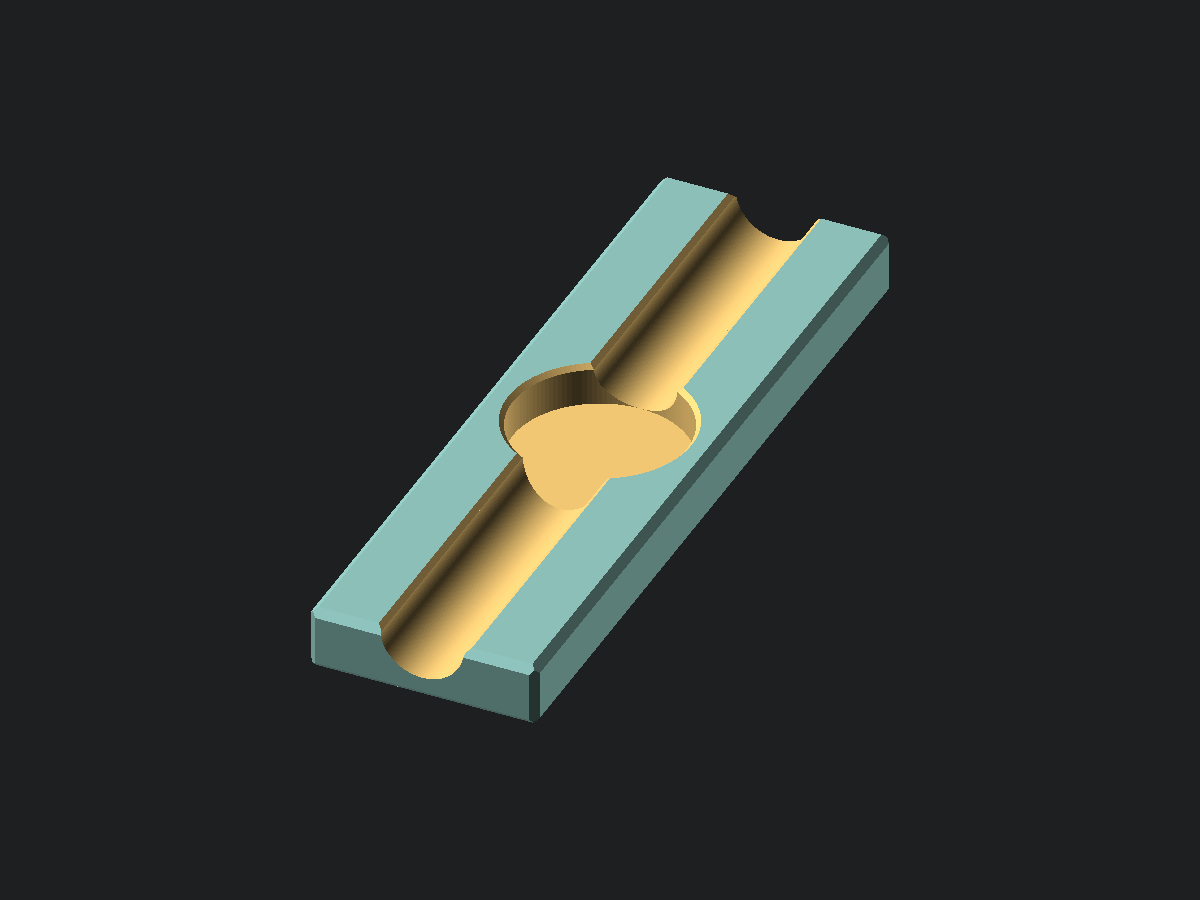
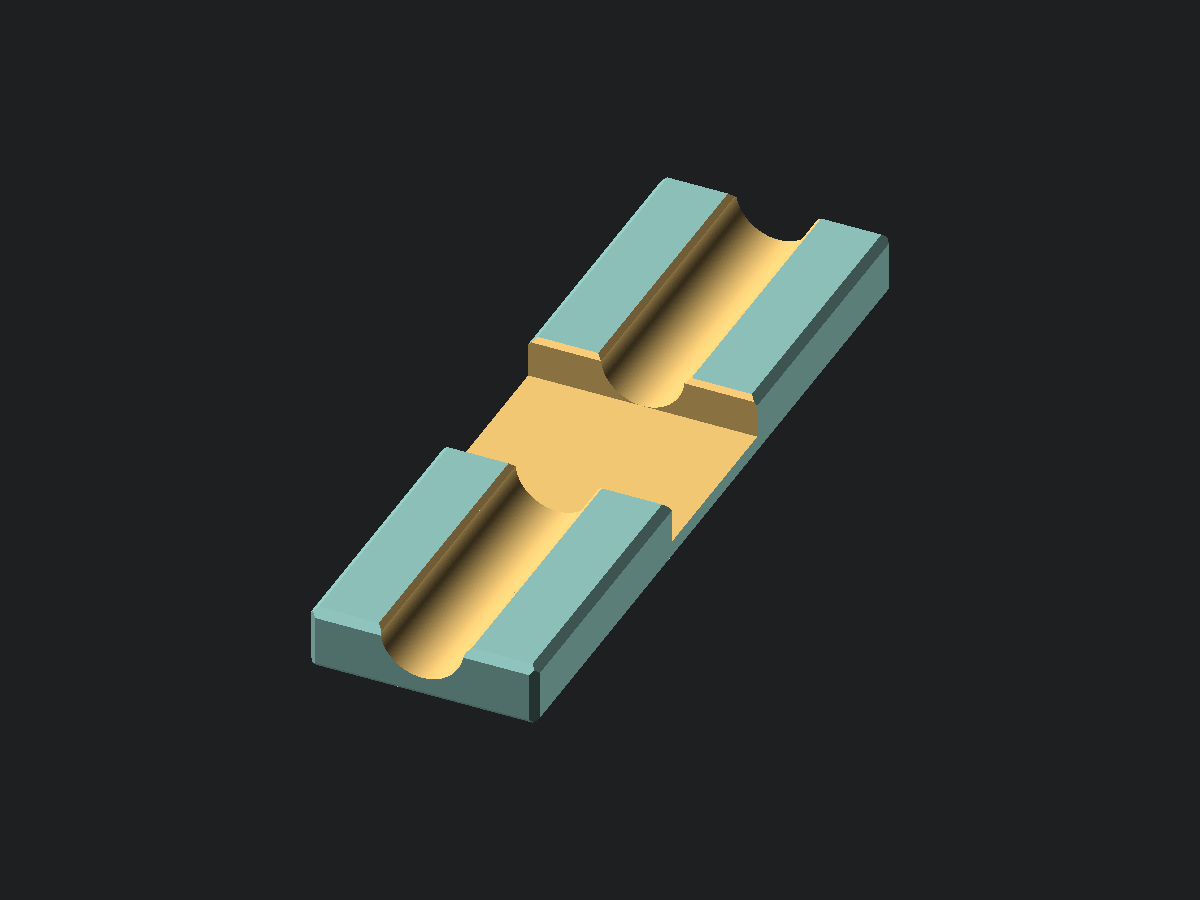
✨ Open the pencil rest's finger notch out both sides
The round punch left a wall of material at each side, so a fingertip had to
reach down into it and pinch at whatever stood proud of the top face. Cutting
the notch clear through both side faces lets a finger and thumb come in
horizontally, level with the underside of the pencil, and close on its whole
diameter — a grip that no longer depends on fingertip size.

It costs nothing off the bottom face, so the block holds the desk exactly as
before; what it costs is trough, and notch_l is now asserted against leaving
less cradle at each end than the pencil is thick.

Changed region(s): [[0.37, 0.3733, 0.6475, 0.5911]]

diff --git a/README.md b/README.md
@@ -494,8 +494,8 @@ printed one at a time they will not, quite.
 
 A block with a cradle down its top, to park a pencil on the desk instead of
 letting it roll off. Every edge is chamfered and one cylindrical trough runs the
-length of the top face; the pencil lies in the trough, and a round punch through
-the middle is what makes it possible to pick up again.
+length of the top face; the pencil lies in the trough, and a notch cut clear
+through the middle is what makes it possible to pick up again.
 
 **The cradle is not a choice.** Its radius is the pencil plus a clearance, it is
 cut to exactly half a cylinder, and the block is then made as tall as that cut
@@ -509,26 +509,34 @@ the radius of the cut are one expression, so the trough walls arrive at the top
 face vertical. A deeper cut would undercut the pencil — it could not be dropped
 in, only threaded in from one end, and the roof of the undercut would be an
 overhang. Half is the deepest a cradle can be and still open upward, and it also
-leaves the pencil standing half proud, which is what makes it easy to pick up
-again. The render echoes how far it stands.
+leaves the pencil standing half proud. The render echoes how far it stands.
 
-**The punch is not a hole through the part.** It takes the rim away on both
-sides at once, so a finger and thumb close on the pencil's whole diameter
-instead of pinching at whatever stands proud of the top face. Neither of its
-limits is a number to get right:
+**The notch is open at both sides.** It is not a hole to reach down into: it runs
+clear out through both side faces, so a finger and thumb come in from the sides,
+level with the underside of the pencil, and close on its whole diameter. That is
+the difference between a grip that depends on how big your fingertips are and one
+that does not. Neither of its limits is a number to get right:
 
-- It cannot reach the sides. Its diameter is the width less the flat, the ease
-  and the chamfer either side, so the material outside it is whatever
-  `punch_wall` says and no value of anything can eat into it.
 - It cannot go deeper than the trough. Its floor is written as the trough's own
   deepest point rather than as a depth of its own, so the two are one plane and
-  the punch can never be the feature that breaks the bottom.
+  the notch can never be the feature that breaks the bottom.
+- It cannot reach the base. What is left under it is `floor_meat` — the same
+  floor the trough stands on and, with the notch open at both sides, also the
+  whole tie between the two halves of the block.
 
 That floor lands exactly level with the underside of the pencil, which is not a
 coincidence worth tuning: a round pencil beds at the bottom of a round trough, so
 its lowest point and the trough's are the same point whatever the clearance. A
-finger does not get under the pencil, and it does not need to — the render echoes
-that the punch exposes the pencil's full diameter.
+finger does not have to get under the pencil — it comes in beside it, and the
+render echoes that the notch exposes the full diameter from either side.
+
+**What the notch costs.** Nothing off the bottom face: the block stands on the
+same footprint it always did, so it holds the desk by the same mass and the same
+friction. What it costs is trough. The cradle carries the pencil either side of
+the notch rather than along the whole length, and the render echoes how much is
+left at each end — 36.4 mm apiece at the shipped sizes, against a 24 mm opening.
+`notch_l` is asserted against leaving less than the pencil is thick at either
+end, which is the point where a cradle has become a lip.
 
 **Measuring.** One measurement, on the pencil:
 
@@ -550,24 +558,23 @@ either side of the trough, which is asserted and echoed.
 of being pressed into a socket. `floor_meat` is the material under the deepest
 point, and raising it makes the block taller rather than the trough shallower.
 `chamfer` breaks every edge of the block, `cradle_ease` breaks both rims of the
-trough — the edge a pencil is rolled over on its way in — and `punch_ease` breaks
-the rim of the punch, which is the edge a fingertip drags over. All of them eat
-into the flat top face, and the render echoes what is left of it.
+trough — the edge a pencil is rolled over on its way in — and `notch_ease` breaks
+both walls of the notch at the top face, which is the edge a fingertip drags over.
+All of them eat into the flat top face, and the render echoes what is left of it.
 
-`punch_wall` is the flat left between the punch and the outer chamfer, and it is
-the knob that sizes the punch: the punch is whatever is left over once that flat,
-the ease and the chamfer are taken off both sides. So it grows with `block_w` on
-its own, and a wider block gets a bigger finger hole without anything being
-re-entered. It is asserted against being narrower than the cradle, which is the
-point below which it stops opening anything a finger did not already have.
+`notch_l` is the clear opening between the notch walls, which is the room a
+finger and thumb actually get. It is the one knob here that is spent rather than
+free: every millimetre of it comes out of the trough at each end, so widen it
+against `block_l` and read the echoed run before printing.
 
 **Printing.** PLA or PETG, no supports. Print as modelled, base down. Nothing
 bridges: the cradle opens upward so its whole surface faces up, and so does the
-punch — flat floor, vertical wall, and an ease at the rim that is a 45° cone
-opening up. The only downward faces in the part are the chamfers along the base,
-at 45°. Print it
-solid or near it — it is a small block, and the only thing it has to do is stay
-put, which is a question of mass and of the friction of the bottom face.
+notch — flat floor, walls straight up off it, open sky out both sides, and a
+break at the mouth that flares outward as it rises. The only downward faces in
+the part are the chamfers along the base, at 45°. Print it solid or near it — it
+is a small block, the only thing it has to do is stay put, and the floor under
+the notch is the one place it would break if it were picked up by an end and
+swung.
 
 ## Working with these
 
